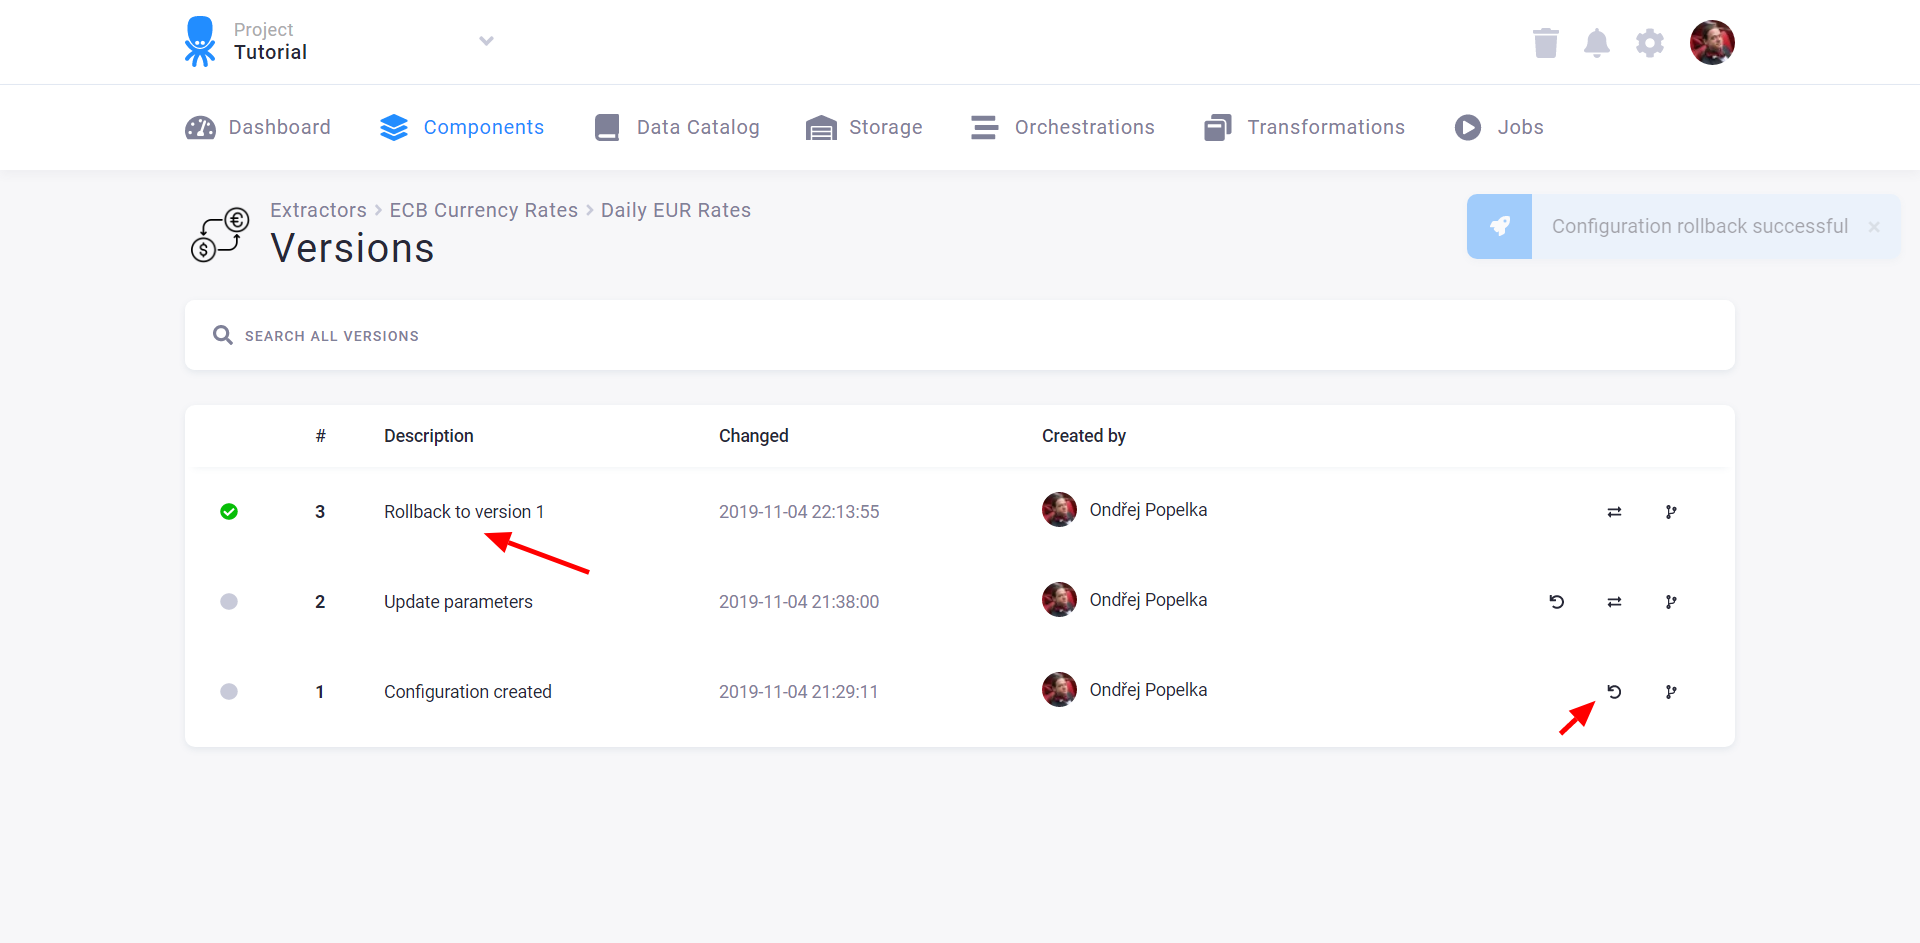
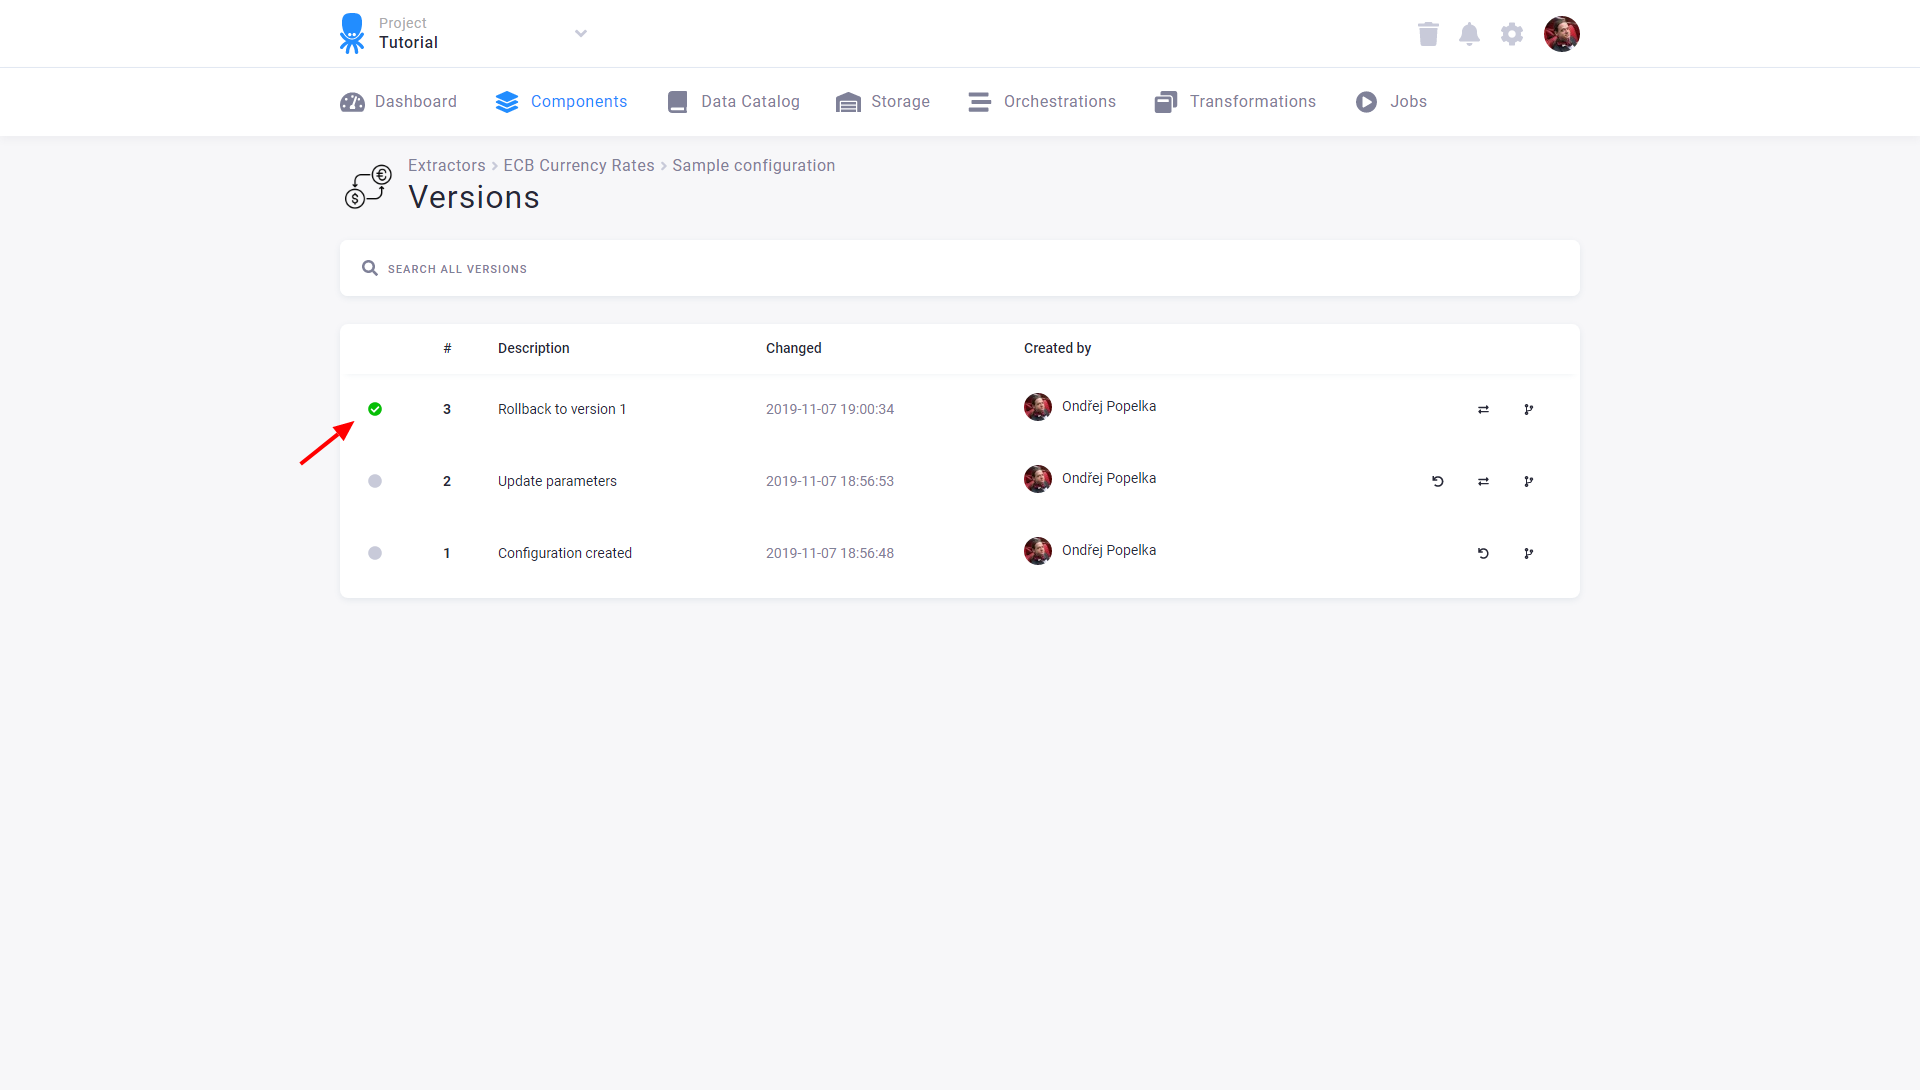
merge configurations stuff

diff --git a/components/index.md b/components/index.md
@@ -1,6 +1,8 @@
 ---
 title: Components
 permalink: /components/
+redirect_from:
+    - /storage/configurations/
 ---
 
 In the Keboola Connection platform, most of the data processing functions are implemented in **Components**. 
@@ -69,6 +71,10 @@ When you set the parameters and **Save** them, you can actually run the componen
 
 When you run a component, a [Job](/management/jobs/) is created and subsequently executed. The right panel shows the last executed jobs
 with an indication of their status:
+When you run a component a [Job](/management/jobs/) is created and subsequently executed. 
+When running the configuration, its active version (the one with the green tick-mark) will be used.
+The right panel shows last executed jobs
+with indication of their status:
 
 - yellow -- running
 - red -- failed
@@ -87,6 +93,24 @@ The configuration description supports rich text formatting using [Markdown](htt
 
 The bottom right panel shows a list of the configuration versions. To see their full list, use the links. 
 The version list is complete and allows you to compare adjacent versions or revert to any previous version.
+The bottom right panel shows list of the configuration versions. You can use the links to see full list of 
+the configuration versions. Use the version list to:
+
+- copy any version,
+- compare any two successive versions, or just
+- rollback to an older version.
+
+All of the operations can be [accessed via API](http://docs.keboola.apiary.io/#reference/component-configurations/create-config).
+For working with configurations, see the [developer guide](https://developers.keboola.com/integrate/storage/api/configurations/).
+
+**Important**: Component configurations do not count towards your project quota.
+
+The version list is unlimited. Configuration versions are also created when the configurations are manipulated 
+programmatically using [the API](https://developers.keboola.com/overview/api/). In other words, there is no way 
+to modify a configuration without the changes being recorded.
+
+### Compare Versions
+You can compare adjacent version using the compare button:
 
 {: .image-popup}
 ![Screenshot - Version List](/components/configuration-8.png)
@@ -99,10 +123,22 @@ When you compare two versions, a difference of the raw JSON configurations is sh
 When you rollback a configuration, a new version is created. This means that you never lose any version of
 a configuration and there is always an option to get back to it. Configuration versions are also created when 
 the configurations are manipulated programmatically using [the API](https://developers.keboola.com/overview/api/).
+### Rollback Version
+If you need to return to an older version of the configuration, you can also rollback to it (the other option is to make its copy).
+Rolling back a configuration version actually means that a new configuration version is created (and marked as active) 
+with the contents of the selected version. Rollback is therefore quite a safe operation.
+
+Click the Rollback button next to the version you want to return to:
+
+{: .image-popup}
+![Screenshot - Version List](/components/configuration-18.png)
+
+Confirm the rollback and see the result:
 
 {: .image-popup}
 ![Screenshot - Configuration Rollback](/components/configuration-10.png)
 
+### Copy Configuration
 You can also use the version list to create a **Copy of the configuration**:
 
 {: .image-popup}
@@ -117,6 +153,37 @@ The copy of the configuration is created as a new isolated configuration -- i.e.
 between the original configuration and the copy, and the changes to one have no effect on the other.
 The copy of the configuration is created as a new isolated configuration -- i.e. there is no link 
 between the original configuration and the copy and changes to one have no effect on the other.
+The new configuration is completely independent on the old one. You may modify or delete 
+either of them without affecting the other one.
+
+### Delete Configuration
+To delete a configuration, click the bin icon in the configuration list or the Move to Trash button in the configuration detail. 
+They both move the configuration to Trash.
+
+{: .image-popup}
+![Screenshot - Delete](/components/configuration-19.png)
+
+Each configuration moved to Trash acts as deleted: it is removed from orchestrations, cannot be run and is not displayed.
+You can undo the delete operation immediately after the delete operation, or restore the configuration from Trash accessible from 
+the main menu.
+
+{: .image-popup}
+![Screenshot - Configuration Trash](/components/configuration-20.png)
+
+There you can restore a deleted configuration, or permanently remove it. Once deleted from Trash, no configuration can be recovered. If your Trash is filled with a large number of configurations and you want to quickly find the one you need to restore or permanently remove, use the filter and search options in the upper part of the page.
+
+{: .image-popup}
+![Screenshot - Configuration Restore](/components/configuration-21.png)
+
+When you restore a configuration, its new version is created. Therefore you can see the complete history in the configuration versions:
+
+{: .image-popup}
+![Screenshot - Configuration History](/components/configuration-22.png)
+
+For technical reasons, configurations of the Orchestrator component cannot be restored when deleted. They will still be shown in Trash, but cannot be restored:
+
+{: .image-popup}
+![Screenshot - Orchestration in Trash](/components/configuration-23.png)
 
 ### Configuration Rows
 Some components support the concept of multiple configurations sharing some parameters in common. A typical

diff --git a/components/extractors/other/index.md b/components/extractors/other/index.md
@@ -3,7 +3,6 @@ title: Other Extractors
 permalink: /components/extractors/other/
 redirect_from:
     - /extractors/other/
-
 ---
 
 Extractors import data from external sources and integrate it to the Keboola Connection (KBC) environment.
